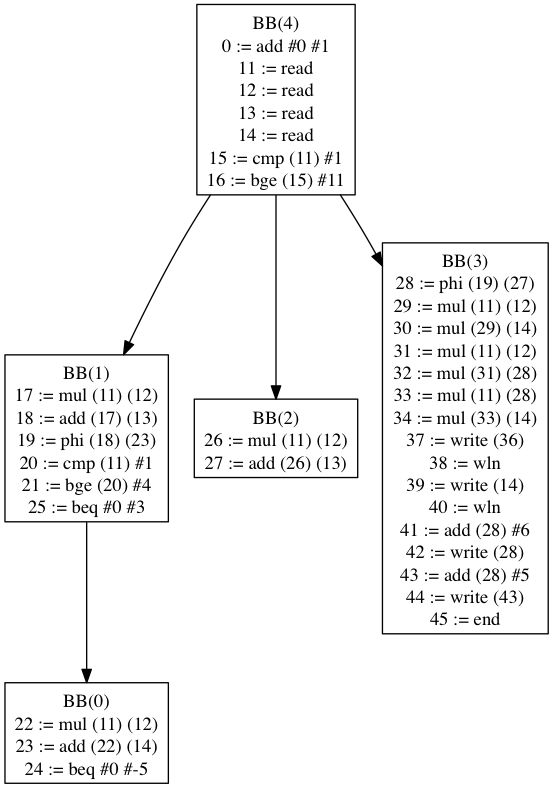
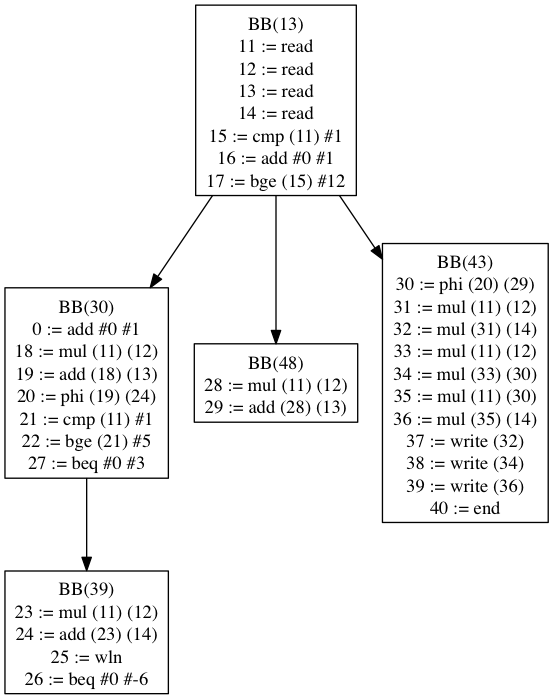
Updated the DOM generation script - what's the bug with the CSE program now?

diff --git a/project/src/com/uci/cs241/pl241/optimization/CSE.java b/project/src/com/uci/cs241/pl241/optimization/CSE.java
@@ -1,0 +1,85 @@
+package com.uci.cs241.pl241.optimization;
+
+import java.util.ArrayList;
+import java.util.HashMap;
+
+import com.uci.cs241.pl241.ir.PLIRBasicBlock;
+import com.uci.cs241.pl241.ir.PLIRInstruction.EliminationReason;
+import com.uci.cs241.pl241.ir.PLIRInstruction.PLIRInstructionType;
+import com.uci.cs241.pl241.ir.PLIRInstruction;
+
+public class CSE 
+{	
+	public PLIRBasicBlock performCSE(PLIRBasicBlock root)
+	{
+		PLIRBasicBlock ret = root;
+		
+		HashMap<PLIRInstructionType, ArrayList<PLIRInstruction>> domList = 
+				new HashMap<PLIRInstructionType, ArrayList<PLIRInstruction>>();
+		
+		// Initialize the map
+		domList.put(PLIRInstructionType.NEG, new ArrayList<PLIRInstruction>());
+		domList.put(PLIRInstructionType.ADD, new ArrayList<PLIRInstruction>());
+		domList.put(PLIRInstructionType.SUB, new ArrayList<PLIRInstruction>());
+		domList.put(PLIRInstructionType.MUL, new ArrayList<PLIRInstruction>());
+		domList.put(PLIRInstructionType.DIV, new ArrayList<PLIRInstruction>());
+		domList.put(PLIRInstructionType.CMP, new ArrayList<PLIRInstruction>());
+		
+		// Record what's already been visited to prevent loops on while loop BBs
+		ArrayList<Integer> visited = new ArrayList<Integer>();
+		
+		// Start depth-first traversal of the tree, recursively
+		cseOnBlock(domList, visited, root);
+		
+		return ret;
+	}
+	
+	private void cseOnBlock(HashMap<PLIRInstructionType, ArrayList<PLIRInstruction>> parentDomList, 
+			ArrayList<Integer> visited, PLIRBasicBlock block)
+	{
+		if (visited.contains(block.id))
+		{
+			return;
+		}
+		else
+		{
+			HashMap<PLIRInstructionType, ArrayList<PLIRInstruction>> domList = 
+					new HashMap<PLIRInstructionType, ArrayList<PLIRInstruction>>();
+			
+			// Re-populate the map
+			for (PLIRInstructionType key : parentDomList.keySet())
+			{
+				domList.put(key, new ArrayList<PLIRInstruction>());
+				for (PLIRInstruction inst : parentDomList.get(key))
+				{
+					domList.get(key).add(inst);
+				}
+			}
+			
+			// Swap out the parent...
+			for (PLIRInstruction inst : block.instructions)
+			{
+				if (domList.containsKey(inst.opcode))
+				{
+					for (PLIRInstruction parentInst : domList.get(inst.opcode))
+					{
+						if (inst.equals(parentInst))
+						{
+							inst.removeInstruction(EliminationReason.CSE, parentInst);
+						}
+					}
+					domList.get(inst.opcode).add(inst);
+				}
+			}
+			
+			// Mark as visited
+			visited.add(block.id);
+			
+			// DFS on the children now
+			for (PLIRBasicBlock child : block.children)
+			{
+				cseOnBlock(domList, visited, child);
+			}
+		}
+	}
+}

diff --git a/project/src/PLC.java b/project/src/PLC.java
@@ -15,6 +15,7 @@ import com.uci.cs241.pl241.frontend.PLTokenizer;
 import com.uci.cs241.pl241.ir.PLIRBasicBlock;
 import com.uci.cs241.pl241.ir.PLIRInstruction;
 import com.uci.cs241.pl241.ir.PLStaticSingleAssignment;
+import com.uci.cs241.pl241.optimization.CSE;
 import com.uci.cs241.pl241.visualization.GraphvizRender;
 
 
@@ -64,6 +65,10 @@ public class PLC
 			root = root.parents.get(0);
 		}
 		
+		// Perform CSE, starting at the root
+		CSE cse = new CSE();
+//		cse.performCSE(root);
+		
 		// Display the instructions
 		System.out.println("\nBegin Instructions\n");
 		PrintWriter instWriter = new PrintWriter(new BufferedWriter(new FileWriter(args[0] + "_inst")));
@@ -112,13 +117,13 @@ public class PLC
 		String domdot = render.renderDominatorTree(root);
 		
 		// Write out the CFG string
-		PrintWriter cfgWriter = new PrintWriter(new BufferedWriter(new FileWriter(args[0] + "_cfg.dot")));
+		PrintWriter cfgWriter = new PrintWriter(new BufferedWriter(new FileWriter(args[0] + ".cfg.dot")));
 		cfgWriter.println(cfgdot);
 		cfgWriter.flush();
 		cfgWriter.close();
 		
 		// Write out the dominator tree
-		PrintWriter domWriter = new PrintWriter(new BufferedWriter(new FileWriter(args[0] + "_dom.dot")));
+		PrintWriter domWriter = new PrintWriter(new BufferedWriter(new FileWriter(args[0] + ".dom.dot")));
 		domWriter.println(domdot);
 		domWriter.flush();
 		domWriter.close();	

diff --git a/project/src/com/uci/cs241/pl241/ir/PLIRInstruction.java b/project/src/com/uci/cs241/pl241/ir/PLIRInstruction.java
@@ -49,7 +49,8 @@ public class PLIRInstruction
 		while (base != null)
 		{
 			prev = base;
-			base = base.refInst;
+			if (base.refInst == base) base = null;
+			else base = base.refInst;
 		}
 		this.origIdent = prev.origIdent;
 	}
